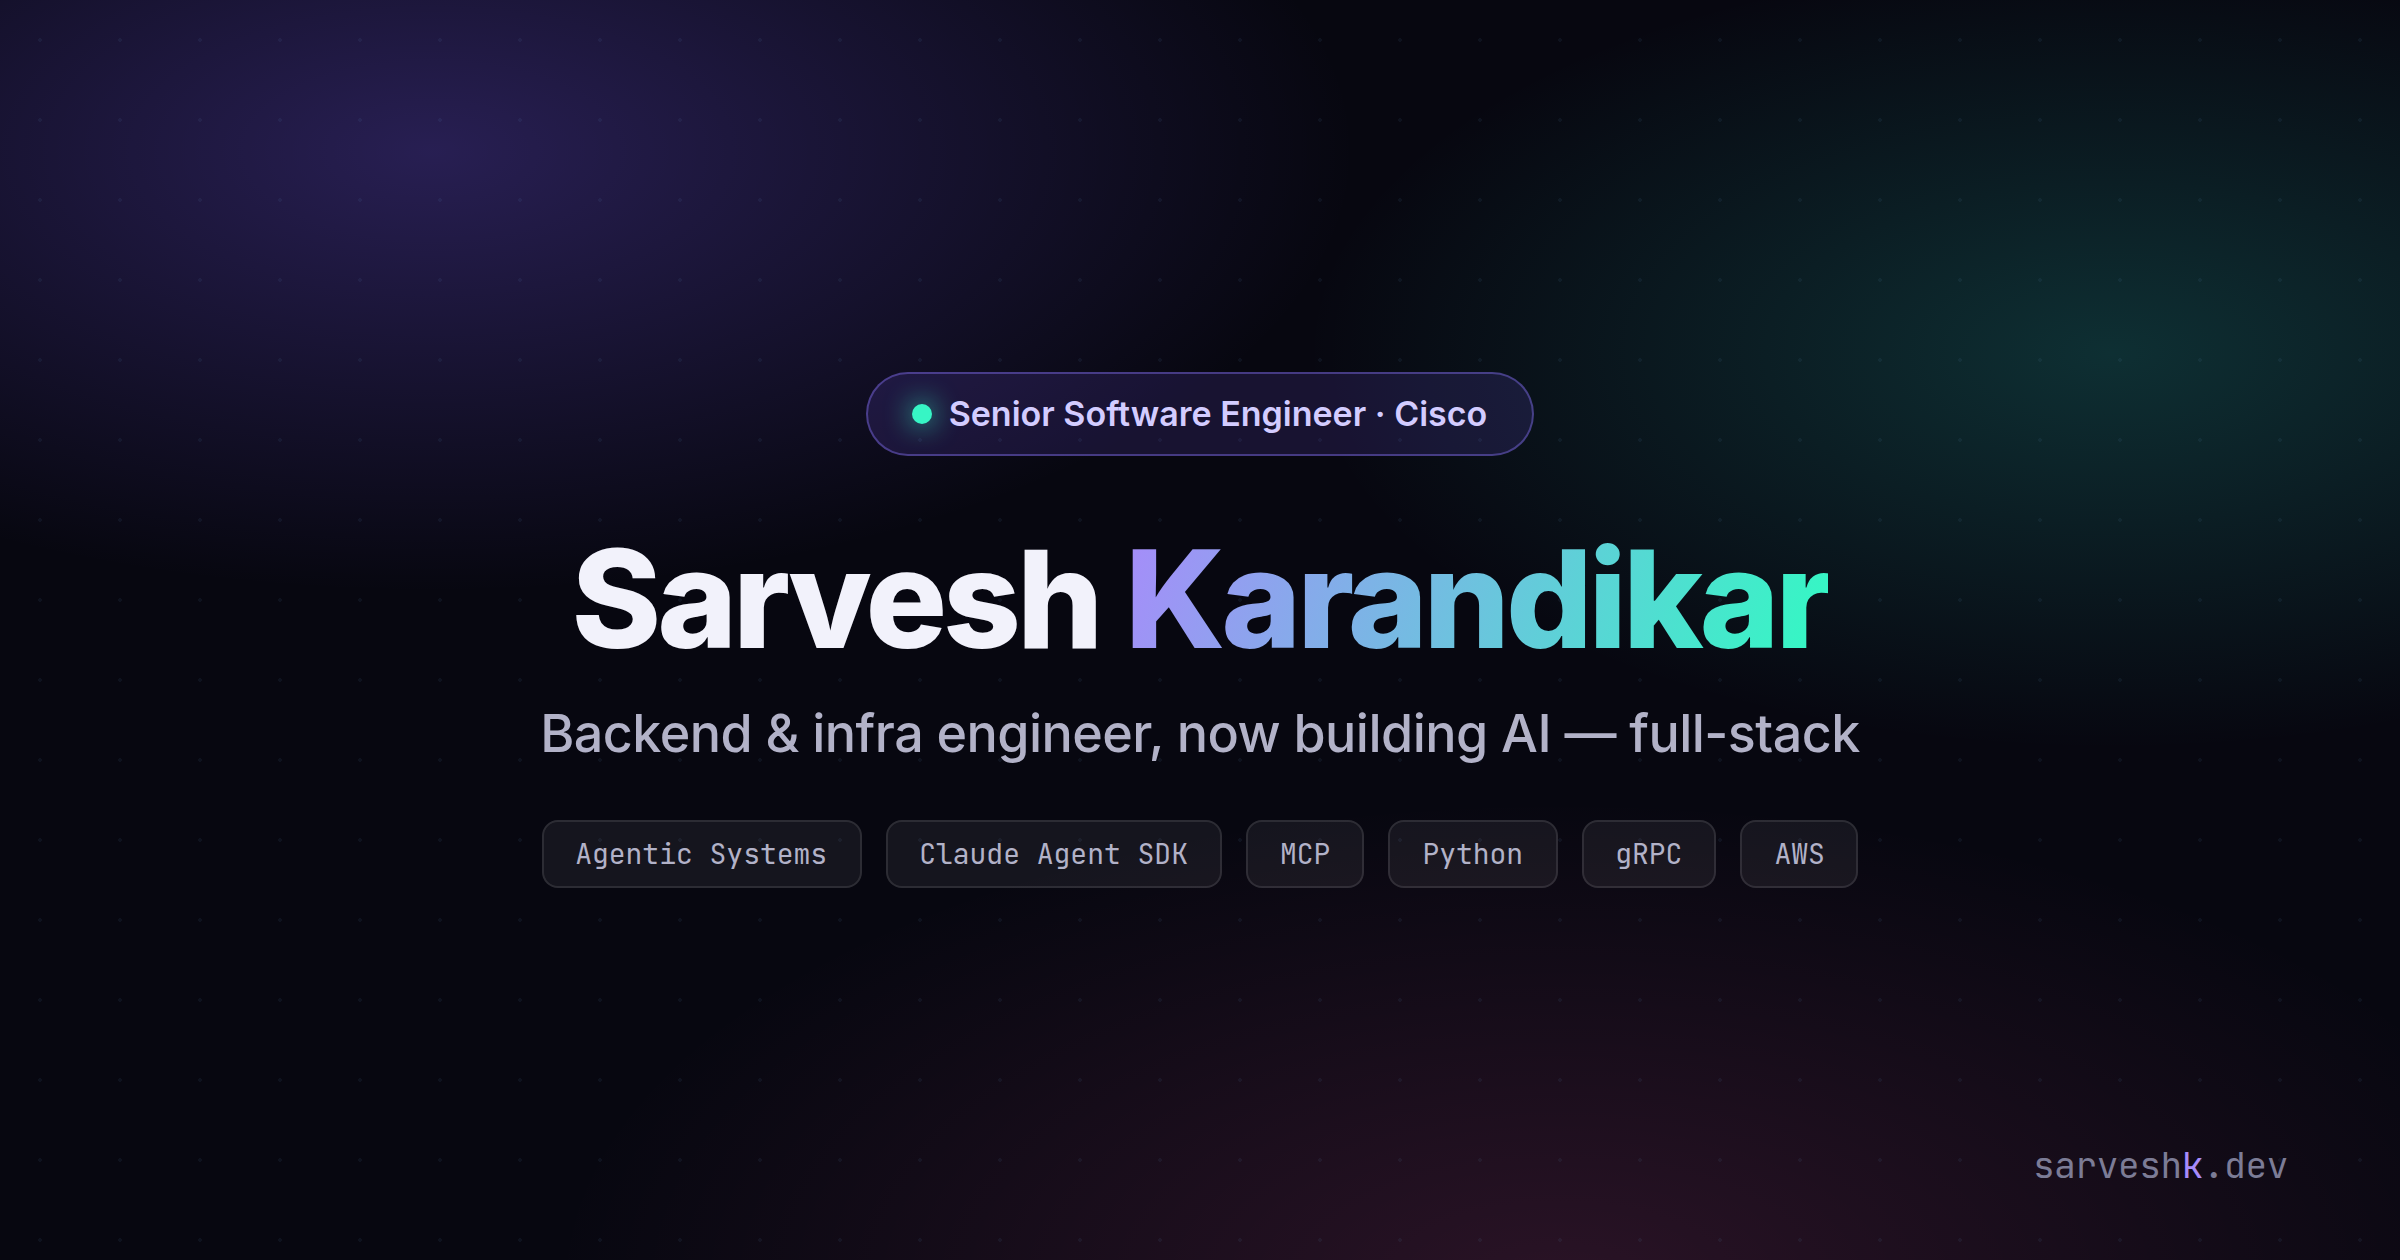
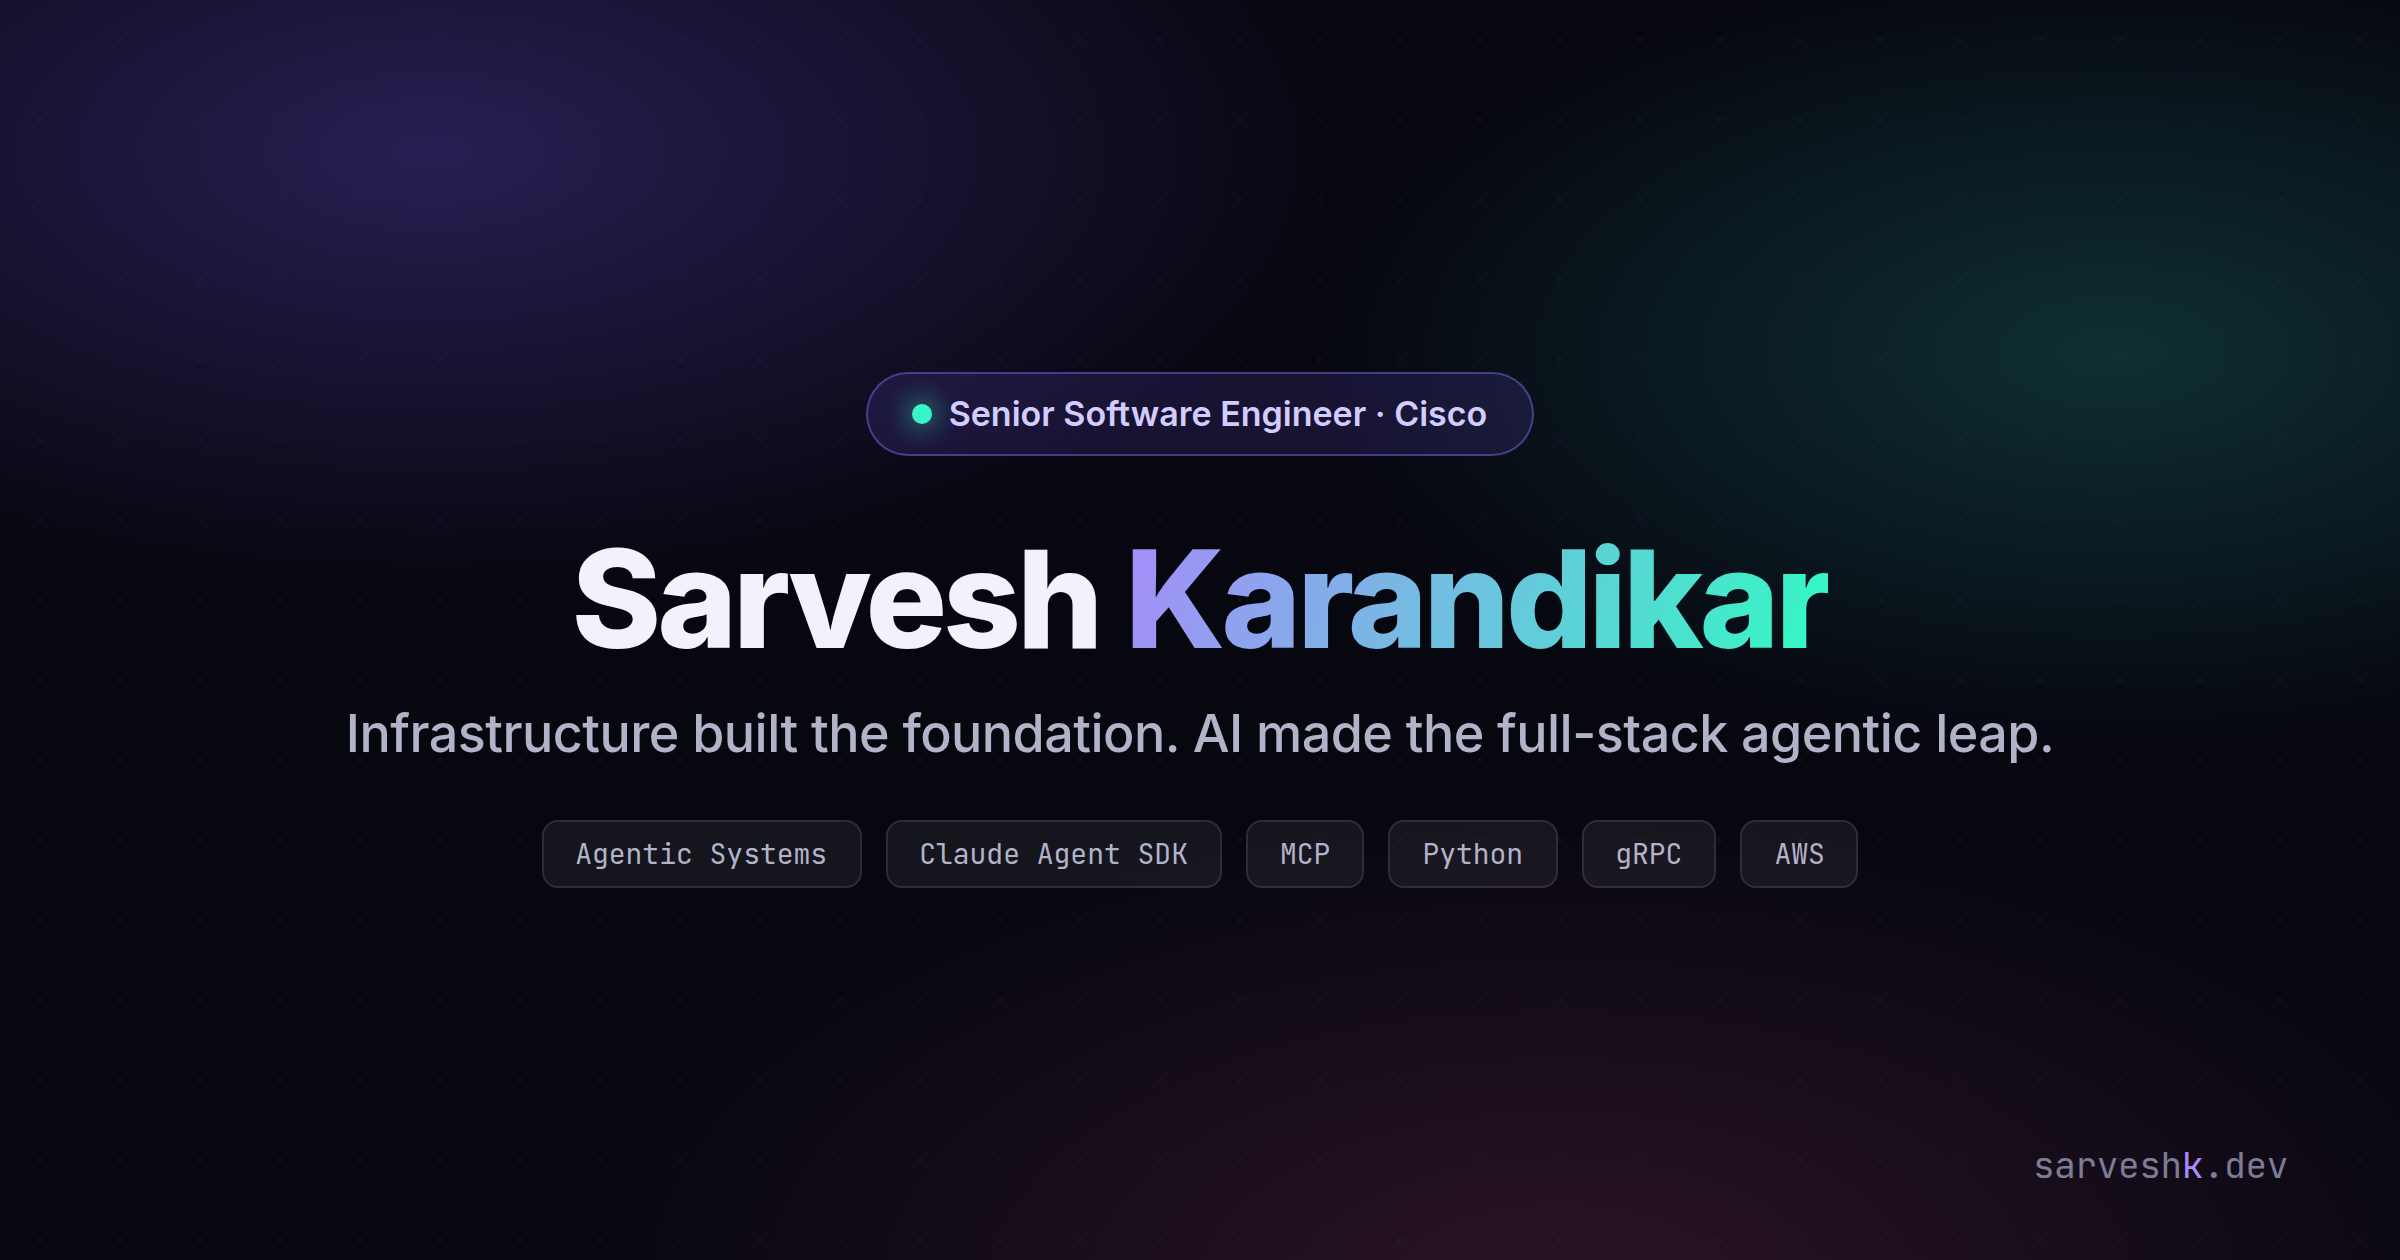
tweak: new headline — infrastructure taught rigor, AI the full-stack agentic leap
- Update hero h1, lead paragraph, meta tags (OG + Twitter)
- Update site title to 'Full-stack Agentic Developer'
- Regenerate OG image with new tagline

Changed region(s): [[0.125, 0.5571, 0.8438, 0.619]]

diff --git a/index.html b/index.html
@@ -4,18 +4,18 @@
   <meta charset="UTF-8" />
   <meta name="viewport" content="width=device-width, initial-scale=1.0" />
   <link rel="icon" href="/favicon.svg" type="image/svg+xml" />
-  <title>Sarvesh Karandikar — Senior Software Engineer</title>
-  <meta name="description" content="Sarvesh Karandikar — Senior Software Engineer at Cisco. Backend & infrastructure engineer building full-stack AI: agentic systems, developer platforms, and the tooling that ships LLMs to production." />
+  <title>Sarvesh Karandikar — Full-stack Agentic Developer</title>
+  <meta name="description" content="Sarvesh Karandikar — Senior Software Engineer at Cisco. Infrastructure taught rigor. Now building full-stack agentic AI: multimodal agents, developer platforms, and the tooling that ships LLMs to production." />
   <link rel="canonical" href="https://sarveshk.dev/" />
   <meta name="theme-color" content="#070710" />
-  <meta property="og:title" content="Sarvesh Karandikar — Senior Software Engineer" />
-  <meta property="og:description" content="Backend & infra engineer at Cisco, now building full-stack AI." />
+  <meta property="og:title" content="Sarvesh Karandikar — Full-stack Agentic Developer" />
+  <meta property="og:description" content="Infrastructure built the foundation. AI made the full-stack agentic leap." />
   <meta property="og:type" content="website" />
   <meta property="og:url" content="https://sarveshk.dev/" />
   <meta property="og:image" content="https://sarveshk.dev/og.png" />
   <meta name="twitter:card" content="summary_large_image" />
-  <meta name="twitter:title" content="Sarvesh Karandikar — Senior Software Engineer" />
-  <meta name="twitter:description" content="Backend & infra engineer at Cisco, now building full-stack AI." />
+  <meta name="twitter:title" content="Sarvesh Karandikar — Full-stack Agentic Developer" />
+  <meta name="twitter:description" content="Infrastructure built the foundation. AI made the full-stack agentic leap." />
   <meta name="twitter:image" content="https://sarveshk.dev/og.png" />
   <link rel="preconnect" href="https://fonts.googleapis.com" />
   <link rel="preconnect" href="https://fonts.gstatic.com" crossorigin />

diff --git a/src/render.ts b/src/render.ts
@@ -46,8 +46,8 @@ export function renderHero(links: SiteLinks): string {
     <div class="glow"></div>
     <div class="in">
       <span class="badge"><span class="dot"></span>Senior Software Engineer · Cisco</span>
-      <h1 class="big">Sarvesh Karandikar.<br>Backend &amp; infra engineer,<br>now building <span class="g">AI — full-stack</span>.</h1>
-      <p class="lead">I spent five years engineering backend, cloud, and security infrastructure at Cisco — then carried that rigor into AI. Today I ship agentic systems end to end: the models, the platform, and the tooling.</p>
+      <h1 class="big">Sarvesh Karandikar.<br>Infrastructure built the foundation.<br>AI made the <span class="g">full-stack agentic</span> leap.</h1>
+      <p class="lead">Senior Software Engineer at Cisco. Infrastructure taught me rigor. Now I build full-stack agentic AI — multimodal agents, developer platforms, and the tooling that ships LLMs to production.</p>
       <div class="arc">
         <div class="step s1"><div class="yr">2019 — 2023</div><div class="nm">Backend + Infra</div></div>
         <div class="step s2"><div class="yr">2023 — 2025</div><div class="nm">Platform + Security</div></div>

diff --git a/scripts/generate-og.ts b/scripts/generate-og.ts
@@ -142,7 +142,7 @@ const OG_HTML = `<!doctype html>
   <div class="card">
     <div class="badge"><span class="dot"></span> Senior Software Engineer · Cisco</div>
     <h1>Sarvesh <span class="g">Karandikar</span></h1>
-    <p class="sub">Backend &amp; infra engineer, now building AI — full-stack</p>
+    <p class="sub">Infrastructure built the foundation. AI made the full-stack agentic leap.</p>
     <div class="tags">
       <span class="tag">Agentic Systems</span>
       <span class="tag">Claude Agent SDK</span>
